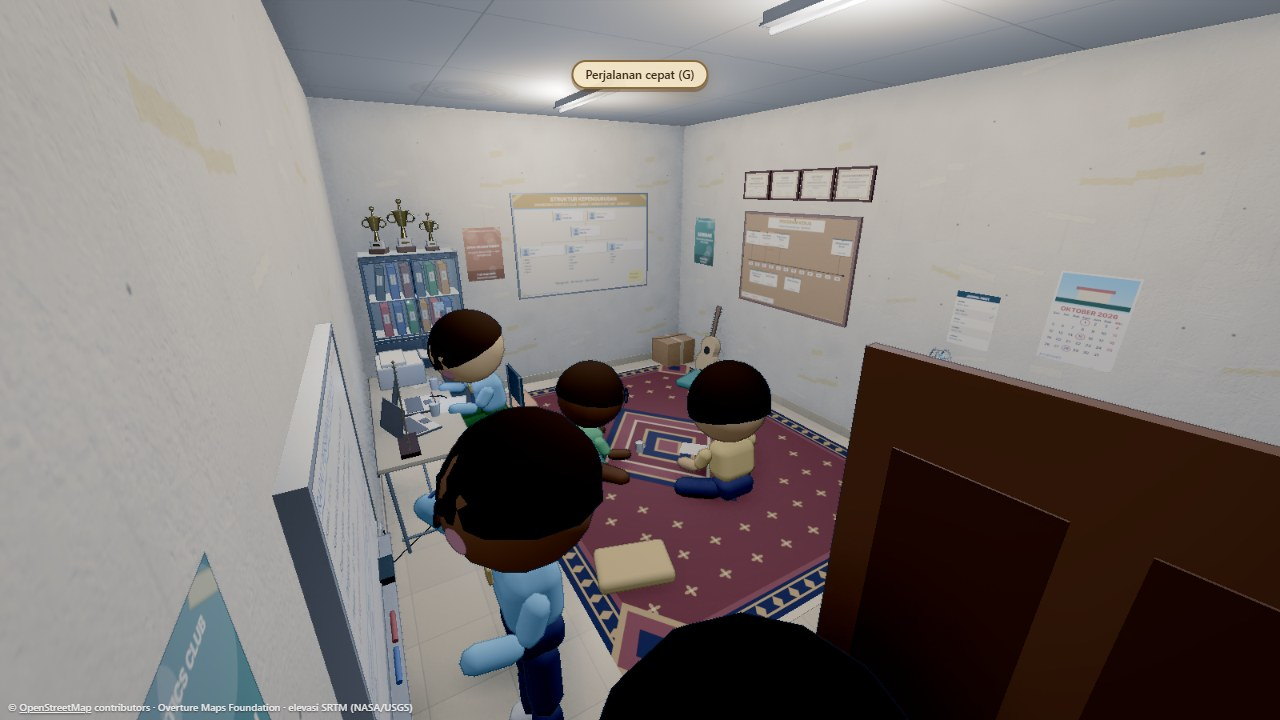
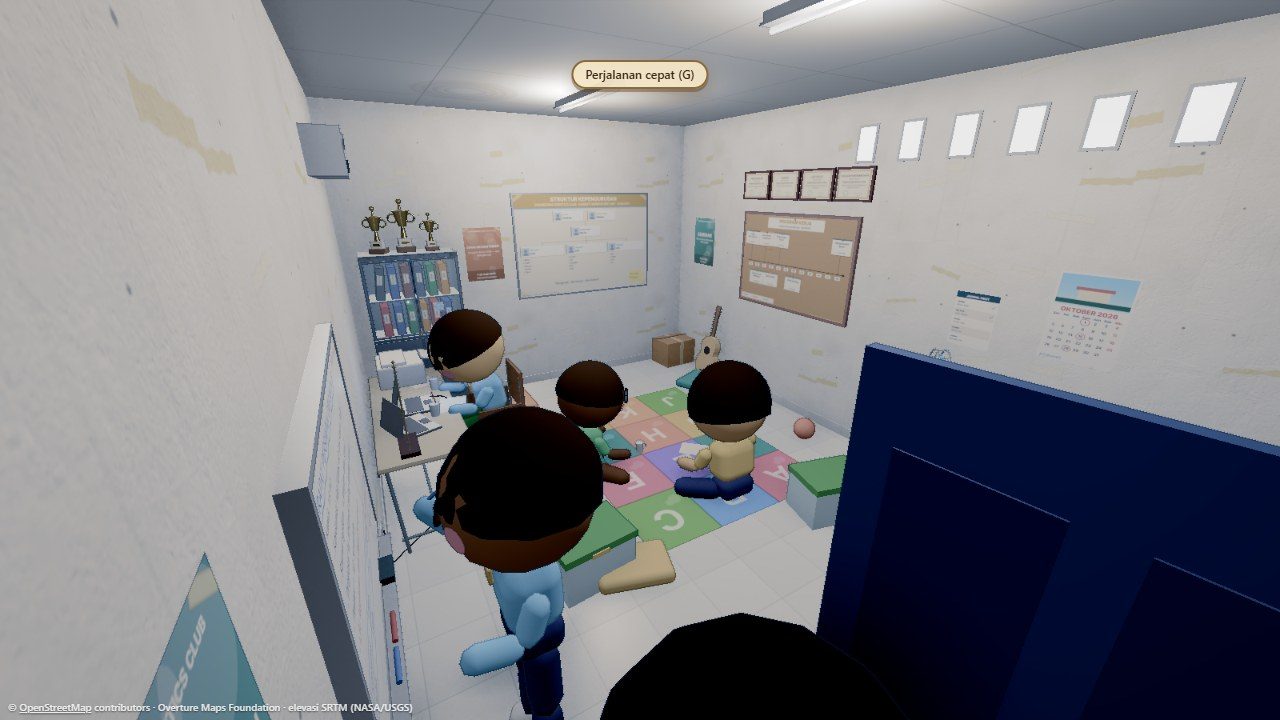
feat(erc): interior sekre mengikuti foto asli (ubin putih, pintu navy, matras alfabet, ventilasi kotak, AC, tirai vertikal, boks plastik, bola)

diff --git a/src/interiors/sekre/room.js b/src/interiors/sekre/room.js
@@ -28,7 +28,7 @@ const WET = new THREE.Color('#6f6a60');
 
 export function drawPlester(c, w, h, seed = 11) {
   const rnd = makeRng(seed);
-  c.fillStyle = '#e8e3d6';
+  c.fillStyle = '#f4f3ef';
   c.fillRect(0, 0, w, h);
   for (let i = 0; i < 260; i += 1) { // belang cat & noda transparan
     const x = rnd() * w;
@@ -99,7 +99,7 @@ export function drawKeramik(c, w, h, seed = 21) {
   for (let i = 0; i < n; i += 1) {
     for (let j = 0; j < n; j += 1) {
       const v = (rnd() - 0.5) * 10;
-      c.fillStyle = `rgb(${232 + v},${216 + v},${184 + v})`;
+      c.fillStyle = `rgb(${243 + v},${243 + v},${240 + v})`;
       c.fillRect(i * tw, j * th, tw, th);
       for (let k = 0; k < 900; k += 1) {
         c.fillStyle = `rgba(${rnd() < 0.5 ? '150,130,100' : '255,250,235'},${0.05 + rnd() * 0.08})`;
@@ -112,7 +112,7 @@ export function drawKeramik(c, w, h, seed = 21) {
       c.fillRect(i * tw, j * th, tw, th);
     }
   }
-  c.strokeStyle = '#b9ad97'; // nat
+  c.strokeStyle = '#c4c4c0'; // nat
   c.lineWidth = 3;
   for (let i = 0; i <= n; i += 1) {
     c.beginPath(); c.moveTo(i * tw, 0); c.lineTo(i * tw, h); c.stroke();
@@ -141,69 +141,39 @@ export function drawPlafon(c, w, h, seed = 31) {
   }
 }
 
-function rosette(c, x, y, r, a, b) {
-  c.fillStyle = a;
-  for (let i = 0; i < 4; i += 1) {
-    const ang = (i * Math.PI) / 2;
-    c.beginPath();
-    c.ellipse(x + Math.cos(ang) * r * 0.7, y + Math.sin(ang) * r * 0.7, r * 0.55, r * 0.3, ang, 0, Math.PI * 2);
-    c.fill();
-  }
-  c.fillStyle = b;
-  c.beginPath();
-  c.arc(x, y, r * 0.35, 0, Math.PI * 2);
-  c.fill();
-}
-
-/** Karpet ambal merah marun bermotif (S22, 3 × 4 m → kanvas 3:4). */
+/** Matras busa alfabet warna-warni (S22; 3 × 4 ubin 60 cm, kanvas 3:4) seperti di sekre ERC. */
 export function drawKarpet(c, w, h, seed = 41) {
   const rnd = makeRng(seed);
-  const MARUN = '#6e1a26';
-  const MARUN2 = '#8a2433';
-  const EMAS = '#cf9e4a';
-  const KREM = '#ecdcb6';
-  const NAVY = '#1f2444';
-  c.fillStyle = MARUN;
-  c.fillRect(0, 0, w, h);
-  const band = (inset, width, color) => {
-    c.strokeStyle = color;
-    c.lineWidth = width;
-    c.strokeRect(inset + width / 2, inset + width / 2, w - 2 * inset - width, h - 2 * inset - width);
-  };
-  band(0, 46, NAVY);
-  band(10, 4, EMAS);
-  band(36, 4, EMAS);
-  band(46, 10, MARUN2);
-  c.fillStyle = EMAS;
-  for (let x = 30; x < w - 20; x += 36) { diamond(c, x, 23, 9, 13); diamond(c, x, h - 23, 9, 13); }
-  for (let y = 30; y < h - 20; y += 36) { diamond(c, 23, y, 13, 9); diamond(c, w - 23, y, 13, 9); }
-  const cx = w / 2;
-  const cy = h / 2;
-  for (const [r, col] of [[260, NAVY], [230, EMAS], [218, MARUN2], [170, KREM], [158, MARUN], [110, EMAS], [96, NAVY], [52, EMAS], [40, MARUN2]]) {
-    c.fillStyle = col;
-    diamond(c, cx, cy, r * 0.8, r);
-  }
-  for (const [x, y] of [[56, 56], [w - 56, 56], [56, h - 56], [w - 56, h - 56]]) {
-    c.fillStyle = EMAS; diamond(c, x, y, 70, 90);
-    c.fillStyle = MARUN2; diamond(c, x, y, 56, 72);
-    c.fillStyle = NAVY; diamond(c, x, y, 26, 34);
-  }
-  for (let y = 110; y < h - 100; y += 72) {
-    for (let x = 100; x < w - 90; x += 72) {
-      const ox = x + (Math.round(y / 72) % 2) * 36;
-      if (Math.hypot((ox - cx) / 0.8, y - cy) < 290) continue;
-      rosette(c, ox, y, 10, EMAS, KREM);
+  const cols = 3;
+  const rows = 4;
+  const tw = w / cols;
+  const th = h / rows;
+  const PAL = ['#e85d75', '#f4a261', '#2a9d8f', '#4a90d9', '#e9c46a', '#9b6bd1', '#6cc24a', '#ef8354'];
+  const LETTERS = 'ABCDEFGHIJKL';
+  for (let j = 0; j < rows; j += 1) {
+    for (let i = 0; i < cols; i += 1) {
+      const k = j * cols + i;
+      c.fillStyle = PAL[(k * 3 + j) % PAL.length];
+      c.fillRect(i * tw, j * th, tw, th);
+      c.fillStyle = 'rgba(255,255,255,0.88)';
+      c.font = `bold ${Math.round(th * 0.55)}px sans-serif`;
+      c.textAlign = 'center';
+      c.textBaseline = 'middle';
+      c.fillText(LETTERS[k], i * tw + tw / 2, j * th + th * 0.5);
+      c.fillStyle = 'rgba(255,255,255,0.35)'; // siluet hewan sederhana di sudut
+      c.beginPath();
+      c.arc(i * tw + tw * 0.2, j * th + th * 0.78, th * 0.09, 0, Math.PI * 2);
+      c.arc(i * tw + tw * 0.2 + th * 0.1, j * th + th * 0.74, th * 0.06, 0, Math.PI * 2);
+      c.fill();
+      c.strokeStyle = 'rgba(0,0,0,0.25)';
+      c.lineWidth = 3;
+      c.strokeRect(i * tw + 1.5, j * th + 1.5, tw - 3, th - 3);
     }
   }
-  for (let k = 0; k < 7000; k += 1) { // serat
-    c.fillStyle = `rgba(${rnd() < 0.5 ? '0,0,0' : '255,230,200'},${rnd() * 0.06})`;
-    c.fillRect(rnd() * w, rnd() * h, 1, 2 + rnd() * 3);
+  for (let k = 0; k < 2500; k += 1) { // noda dan debu
+    c.fillStyle = `rgba(${rnd() < 0.5 ? '0,0,0' : '255,255,255'},${rnd() * 0.05})`;
+    c.fillRect(rnd() * w, rnd() * h, 2, 2);
   }
-  const fade = c.createRadialGradient(cx, cy * 1.1, 40, cx, cy, h * 0.6); // pudar di area paling sering diduduki
-  fade.addColorStop(0, 'rgba(255,220,200,0.10)');
-  fade.addColorStop(1, 'rgba(0,0,0,0)');
-  c.fillStyle = fade;
-  c.fillRect(0, 0, w, h);
 }
 
 /** Fasad deret sekre seberang selasar (latar jendela & pintu). */

diff --git a/src/interiors/sekre/furniture.js b/src/interiors/sekre/furniture.js
@@ -230,8 +230,10 @@ function buildMeja(m) {
 
 function buildKursi(m) {
   const seat = piece([
-    box(0.42, 0.03, 0.4, '#37474f', { y: 0.45 }),
-    box(0.42, 0.28, 0.02, '#37474f', { y: 0.76, z: 0.2 }),
+    box(0.42, 0.04, 0.4, '#8a5a2b', { y: 0.45 }),
+    box(0.42, 0.34, 0.03, '#8a5a2b', { y: 0.78, z: 0.2 }),
+    box(0.03, 0.2, 0.36, '#7a4c22', { x: -0.22, y: 0.58 }),
+    box(0.03, 0.2, 0.36, '#7a4c22', { x: 0.22, y: 0.58 }),
   ], m.prop, 'dudukan');
   const legs = [];
   for (const x of [-0.19, 0.19]) {
@@ -269,12 +271,9 @@ function buildSepatu(m, color) {
 function buildKarpet(m, it) {
   const g = new THREE.Group();
   g.name = 'S22';
-  const rug = new THREE.Mesh(new THREE.PlaneGeometry(3, 4).rotateX(-PI / 2).translate(0, 0.006, 0), m.karpet);
+  const rug = new THREE.Mesh(new THREE.PlaneGeometry(1.8, 2.4).rotateX(-PI / 2).translate(0, 0.006, 0), m.karpet);
   rug.receiveShadow = true;
-  g.add(rug, piece([
-    box(3, 0.004, 0.05, '#efe3c6', { y: 0.004, z: -2.025 }),
-    box(3, 0.004, 0.05, '#efe3c6', { y: 0.004, z: 2.025 }),
-  ], m.prop, 'rumbai', false));
+  g.add(rug);
   g.position.set(it.x, it.y, it.z);
   return g;
 }
@@ -416,17 +415,17 @@ function buildJendela(m) {
 /** S30 pintu kayu + kusen, daun terbuka ke dalam (engsel di DOOR.x0). Koordinat ruang. */
 function buildPintu(m) {
   const it = ASET.S30.items[0];
-  const WOOD = '#6d4428';
+  const WOOD = '#d4d6da';
   const kusen = piece([
     box(0.06, 2.16, 0.17, WOOD, { x: 0.87, y: 1.08, z: -3.075 }),
     box(0.06, 2.16, 0.17, WOOD, { x: 1.83, y: 1.08, z: -3.075 }),
     box(1.02, 0.06, 0.17, WOOD, { x: 1.35, y: 2.13, z: -3.075 }),
   ], m.prop, 'kusen');
   const panel = piece([
-    box(0.9, 2.08, 0.04, '#7a4b2a', { x: 0.45, y: 1.04, z: 0.02 }),
+    box(0.9, 2.08, 0.04, '#1f3768', { x: 0.45, y: 1.04, z: 0.02 }),
     ...[0.25, 0.65].flatMap((x) => [0.6, 1.5].flatMap((y) => [
-      box(0.3, 0.75, 0.008, '#5e3a20', { x, y, z: 0.042 }),
-      box(0.3, 0.75, 0.008, '#5e3a20', { x, y, z: -0.002 }),
+      box(0.3, 0.75, 0.008, '#182d58', { x, y, z: 0.042 }),
+      box(0.3, 0.75, 0.008, '#182d58', { x, y, z: -0.002 }),
     ])),
   ], m.prop, 'daun');
   const handle = piece([
@@ -438,6 +437,41 @@ function buildPintu(m) {
   hinge.position.set(it.x, 0, it.z);
   hinge.rotation.y = it.buka;
   return groupOf('S30', kusen, hinge);
+}
+
+
+/** Perlengkapan khas sekre ERC (dari foto): tirai vertikal krem, ventilasi kotak, AC split, boks plastik, bola futsal. */
+function buildPerlengkapanErc(m) {
+  const it = ASET.S29.items[0];
+  const blinds = [];
+  for (let k = 0; k < 13; k += 1) blinds.push(box(0.1, 1.55, 0.012, k % 2 ? '#e8e1c9' : '#f1ecda', { x: it.x - 0.66 + k * 0.11, y: it.y + 0.55, z: -2.93 }));
+  blinds.push(box(1.5, 0.06, 0.05, '#cfc8b0', { x: it.x, y: it.y + 1.35, z: -2.93 }));
+  const vents = [];
+  const ventFrames = [];
+  for (let k = 0; k < 9; k += 1) {
+    vents.push(box(0.15, 0.27, 0.01, '#f4f8ff', { x: -2.0 + k * 0.33, y: 2.78, z: -2.985 }));
+    ventFrames.push(box(0.19, 0.31, 0.008, '#c9cdd0', { x: -2.0 + k * 0.33, y: 2.78, z: -2.99 }));
+  }
+  for (let k = 0; k < 7; k += 1) {
+    vents.push(box(0.01, 0.27, 0.15, '#f4f8ff', { x: -2.085, y: 2.78, z: -2.2 + k * 0.4 }));
+    ventFrames.push(box(0.008, 0.31, 0.19, '#c9cdd0', { x: -2.09, y: 2.78, z: -2.2 + k * 0.4 }));
+  }
+  const ac = [
+    box(0.22, 0.28, 0.92, '#f2f3f4', { x: 2.0, y: 2.62, z: 1.3 }),
+    box(0.02, 0.05, 0.8, '#3a3f45', { x: 1.89, y: 2.55, z: 1.3 }),
+    box(0.02, 0.03, 0.9, '#d9dcdf', { x: 1.89, y: 2.7, z: 1.3 }),
+  ];
+  const bins = [];
+  for (const [x, z, r] of [[0.95, -0.4, 0.1], [-0.95, -0.75, -0.25]]) {
+    bins.push(box(0.5, 0.3, 0.36, '#d9ecef', { x, y: 0.15, z, ry: r }));
+    bins.push(box(0.52, 0.05, 0.38, '#43a047', { x, y: 0.325, z, ry: r }));
+    bins.push(box(0.12, 0.03, 0.02, '#f2c230', { x, y: 0.31, z: z - 0.19, ry: r }));
+  }
+  const ballG = [ball(0.11, '#ef6c1a', { x: -1.7, y: 0.11, z: 0.15 })];
+  return groupOf('perlengkapan-erc',
+    piece(blinds, m.prop, 'tirai-vertikal', false), piece(vents, m.tl, 'ventilasi-kotak', false),
+    piece(ventFrames, m.prop, 'bingkai-ventilasi', false), piece(ac, m.prop, 'ac-split', false),
+    piece(bins, m.prop, 'boks-plastik'), piece(ballG, m.prop, 'bola', false));
 }
 
 // ---------- Perabot hidup ----------
@@ -498,6 +532,7 @@ export function buildFurniture({ materials }) {
   staticGroup.add(placed(buildSaklar(m), ASET.S27.items[0]));
   staticGroup.add(buildJendela(m));
   staticGroup.add(buildPintu(m));
+  staticGroup.add(buildPerlengkapanErc(m));
 
   // dinamis / dapat diganti GLB
   ASET.S07.items.forEach((it, k) => addContainer('S07', it, buildPiala(m), k));
